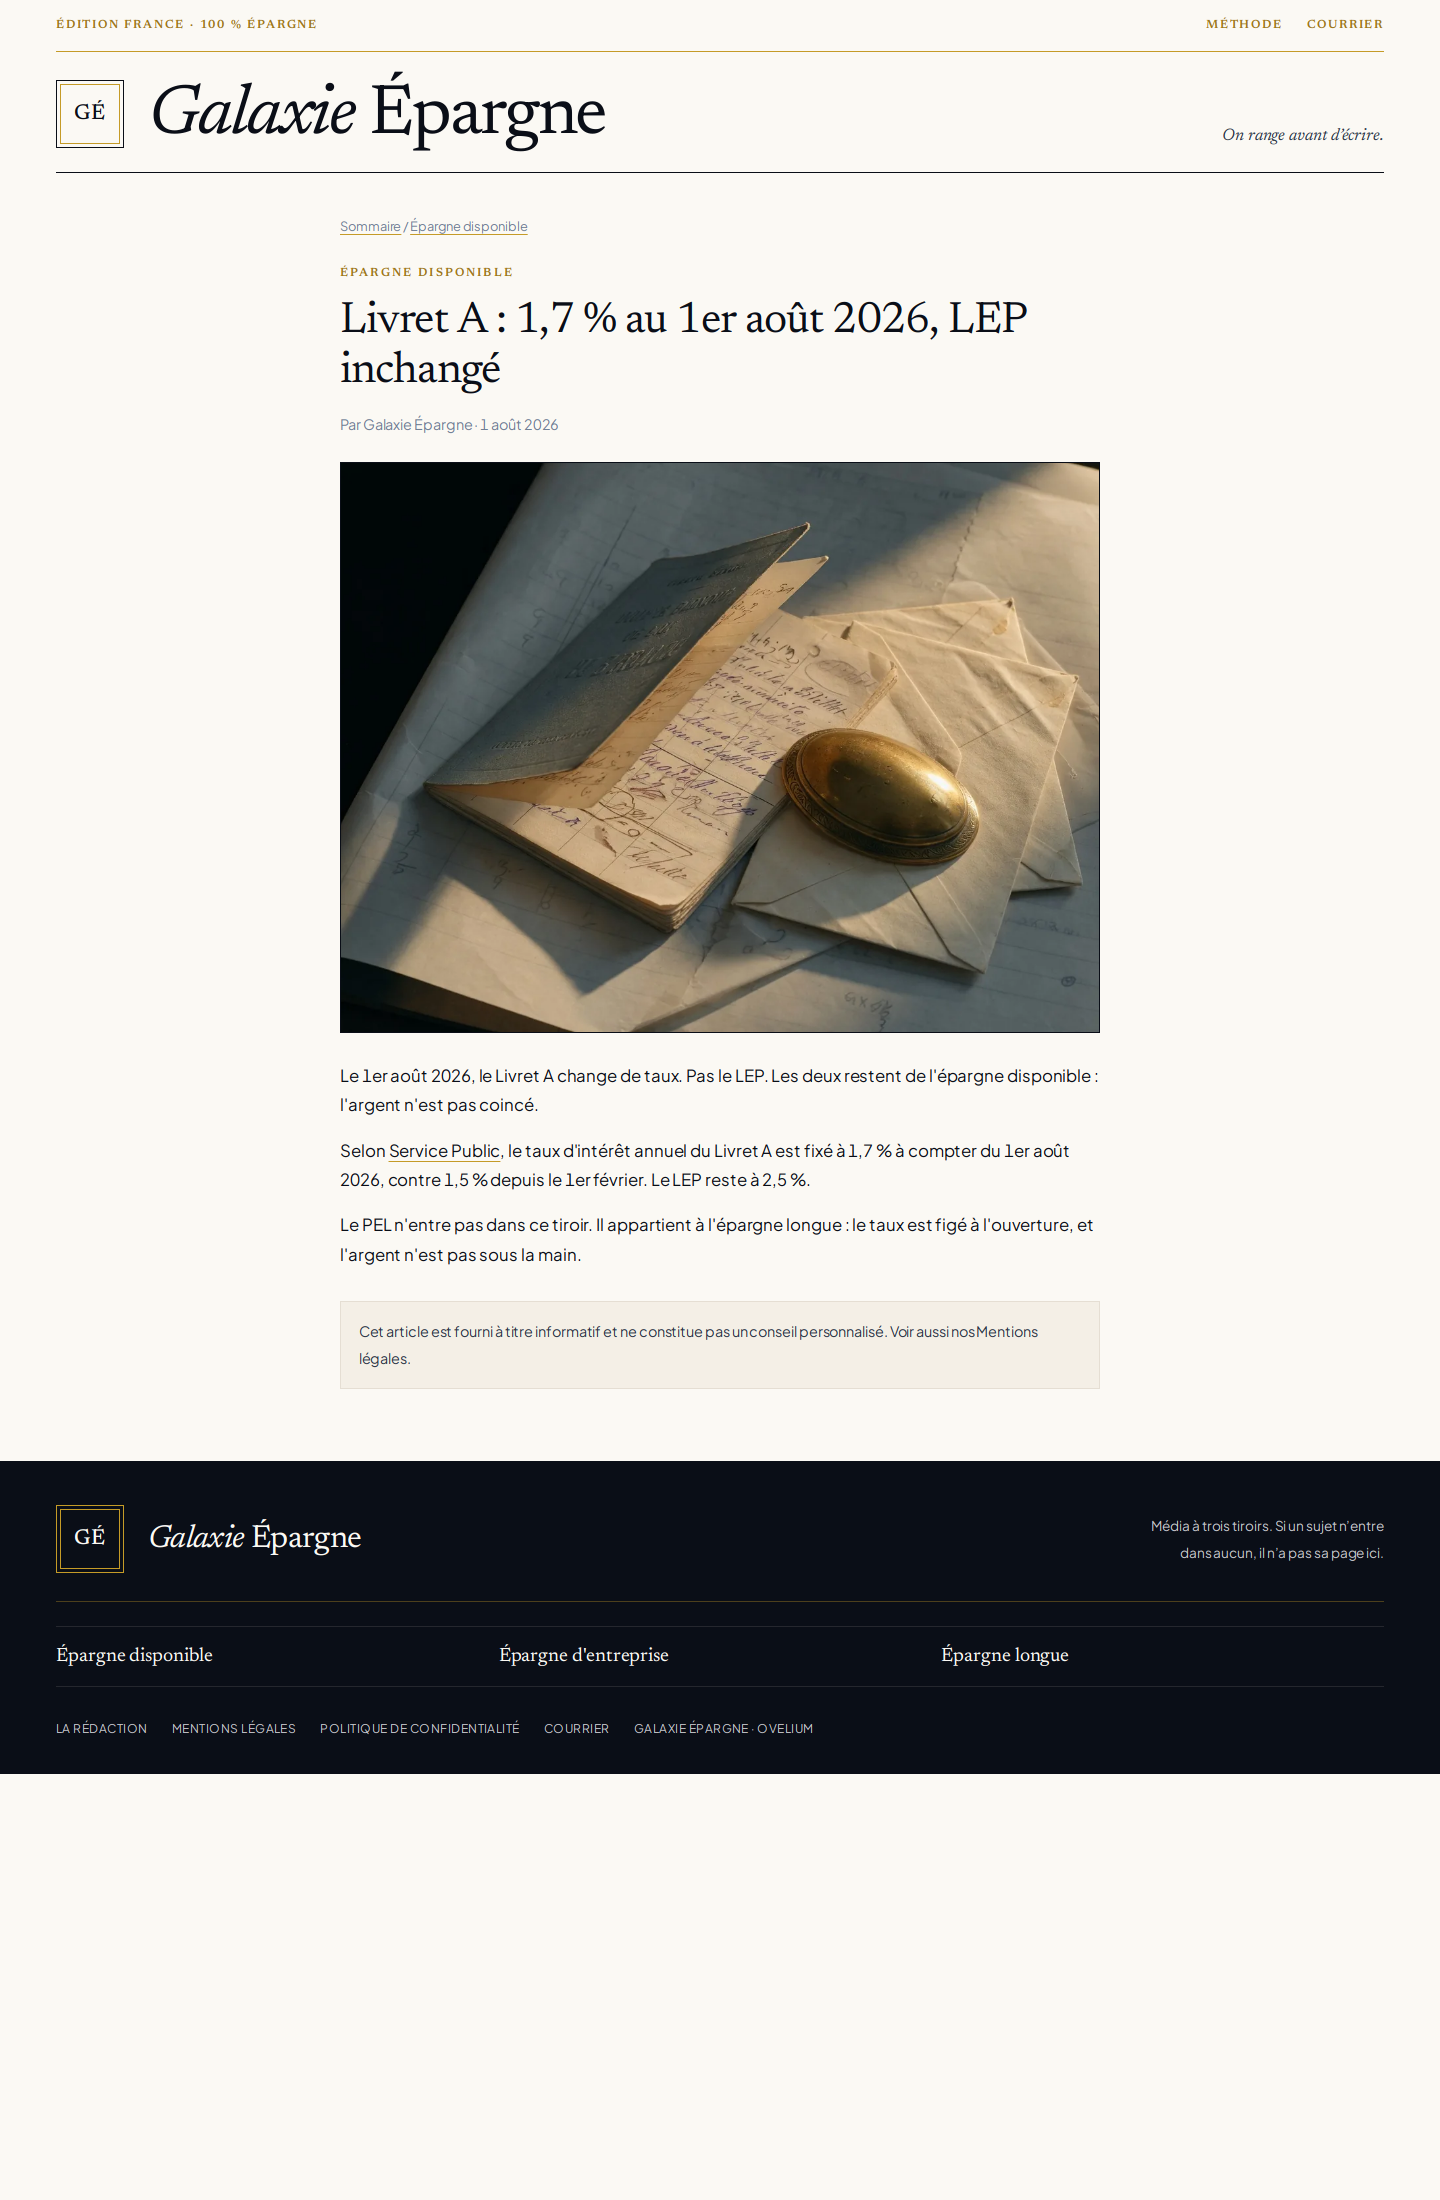
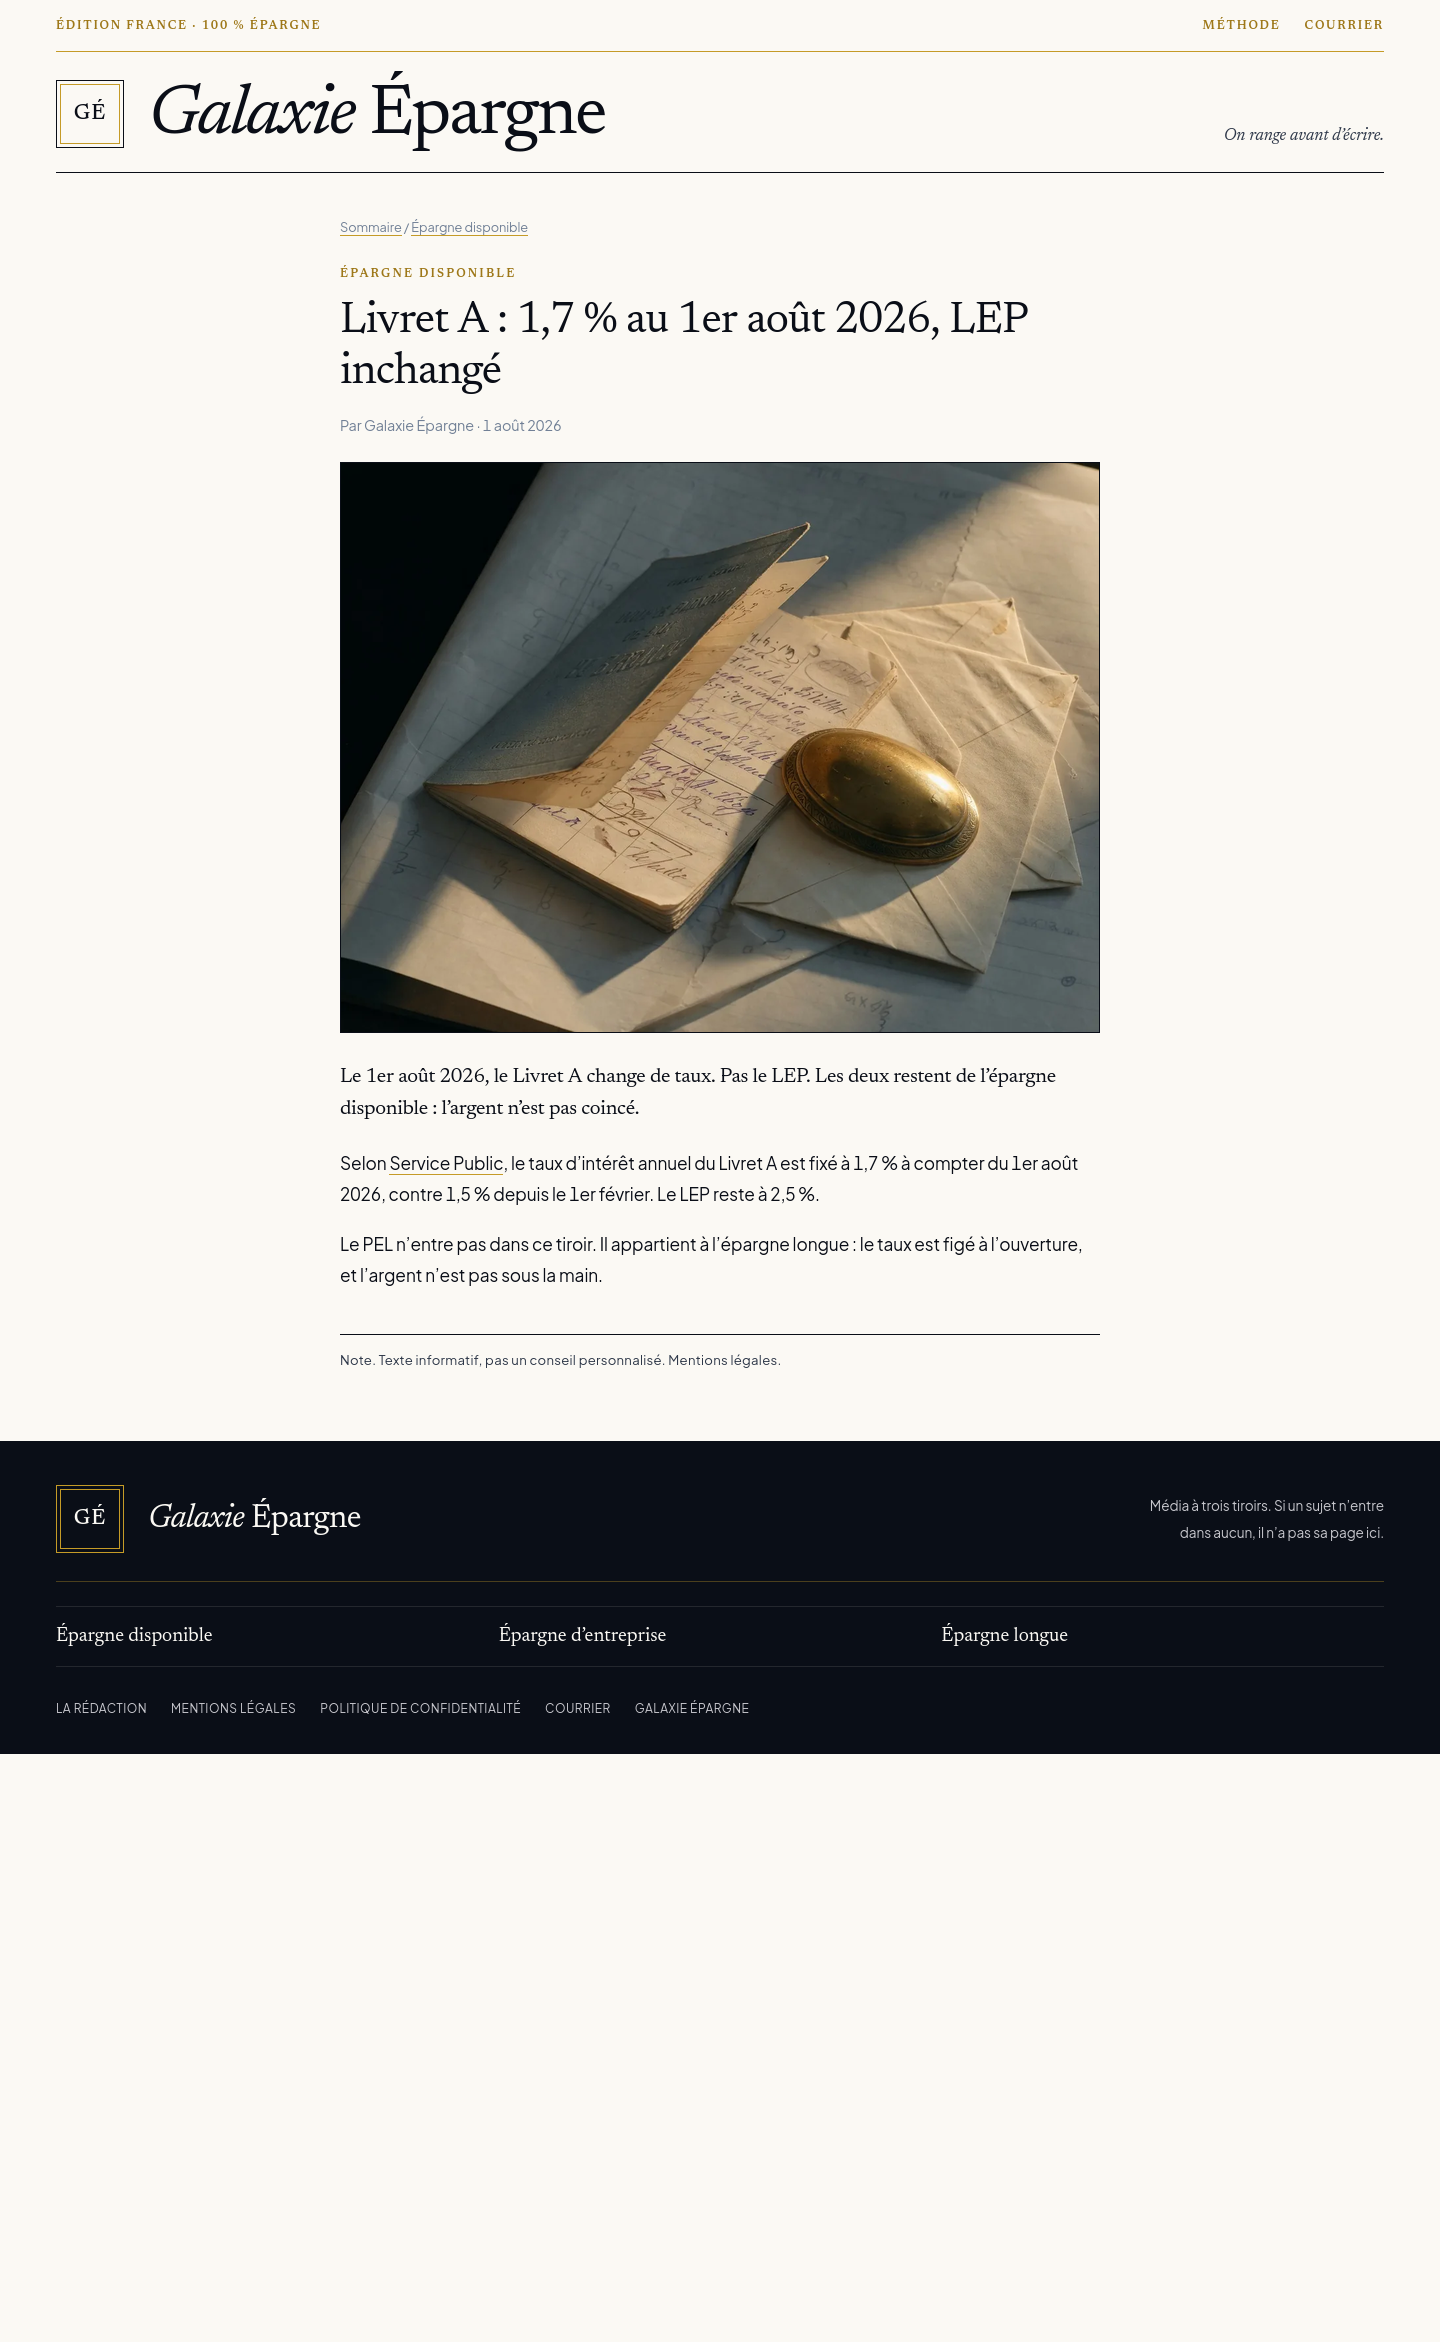
Recale nits Galaxie Épargne : apostrophes U+2019, chapo sans liens, footer sans OVELIUM

Changed region(s): [[0.0, 0.0, 1.0, 0.8036], [0.875, 0.0, 0.9375, 0.0618], [0.8438, 0.0, 0.875, 0.0309]]

diff --git a/src/styles/faces.css b/src/styles/faces.css
@@ -1,0 +1,114 @@
+/* latin + latin-ext only. unicode-range is required: subset CSS without it
+   lets latin-ext overwrite latin and drop U+2019 (n’est → nest / Siun / iln). */
+@font-face {
+  font-family: "Newsreader";
+  font-style: normal;
+  font-display: swap;
+  font-weight: 400;
+  src: url("../../node_modules/@fontsource/newsreader/files/newsreader-latin-400-normal.woff2") format("woff2");
+  unicode-range: U+0000-00FF, U+0131, U+0152-0153, U+02BB-02BC, U+02C6, U+02DA, U+02DC, U+0304, U+0308, U+0329, U+2000-206F, U+20AC, U+2122, U+2191, U+2193, U+2212, U+2215, U+FEFF, U+FFFD;
+}
+@font-face {
+  font-family: "Newsreader";
+  font-style: normal;
+  font-display: swap;
+  font-weight: 400;
+  src: url("../../node_modules/@fontsource/newsreader/files/newsreader-latin-ext-400-normal.woff2") format("woff2");
+  unicode-range: U+0100-02BA, U+02BD-02C5, U+02C7-02CC, U+02CE-02D7, U+02DD-02FF, U+0304, U+0308, U+0329, U+1D00-1DBF, U+1E00-1E9F, U+1EF2-1EFF, U+2020, U+20A0-20AB, U+20AD-20C0, U+2113, U+2C60-2C7F, U+A720-A7FF;
+}
+@font-face {
+  font-family: "Newsreader";
+  font-style: italic;
+  font-display: swap;
+  font-weight: 400;
+  src: url("../../node_modules/@fontsource/newsreader/files/newsreader-latin-400-italic.woff2") format("woff2");
+  unicode-range: U+0000-00FF, U+0131, U+0152-0153, U+02BB-02BC, U+02C6, U+02DA, U+02DC, U+0304, U+0308, U+0329, U+2000-206F, U+20AC, U+2122, U+2191, U+2193, U+2212, U+2215, U+FEFF, U+FFFD;
+}
+@font-face {
+  font-family: "Newsreader";
+  font-style: italic;
+  font-display: swap;
+  font-weight: 400;
+  src: url("../../node_modules/@fontsource/newsreader/files/newsreader-latin-ext-400-italic.woff2") format("woff2");
+  unicode-range: U+0100-02BA, U+02BD-02C5, U+02C7-02CC, U+02CE-02D7, U+02DD-02FF, U+0304, U+0308, U+0329, U+1D00-1DBF, U+1E00-1E9F, U+1EF2-1EFF, U+2020, U+20A0-20AB, U+20AD-20C0, U+2113, U+2C60-2C7F, U+A720-A7FF;
+}
+@font-face {
+  font-family: "Newsreader";
+  font-style: normal;
+  font-display: swap;
+  font-weight: 500;
+  src: url("../../node_modules/@fontsource/newsreader/files/newsreader-latin-500-normal.woff2") format("woff2");
+  unicode-range: U+0000-00FF, U+0131, U+0152-0153, U+02BB-02BC, U+02C6, U+02DA, U+02DC, U+0304, U+0308, U+0329, U+2000-206F, U+20AC, U+2122, U+2191, U+2193, U+2212, U+2215, U+FEFF, U+FFFD;
+}
+@font-face {
+  font-family: "Newsreader";
+  font-style: normal;
+  font-display: swap;
+  font-weight: 500;
+  src: url("../../node_modules/@fontsource/newsreader/files/newsreader-latin-ext-500-normal.woff2") format("woff2");
+  unicode-range: U+0100-02BA, U+02BD-02C5, U+02C7-02CC, U+02CE-02D7, U+02DD-02FF, U+0304, U+0308, U+0329, U+1D00-1DBF, U+1E00-1E9F, U+1EF2-1EFF, U+2020, U+20A0-20AB, U+20AD-20C0, U+2113, U+2C60-2C7F, U+A720-A7FF;
+}
+@font-face {
+  font-family: "Newsreader";
+  font-style: normal;
+  font-display: swap;
+  font-weight: 600;
+  src: url("../../node_modules/@fontsource/newsreader/files/newsreader-latin-600-normal.woff2") format("woff2");
+  unicode-range: U+0000-00FF, U+0131, U+0152-0153, U+02BB-02BC, U+02C6, U+02DA, U+02DC, U+0304, U+0308, U+0329, U+2000-206F, U+20AC, U+2122, U+2191, U+2193, U+2212, U+2215, U+FEFF, U+FFFD;
+}
+@font-face {
+  font-family: "Newsreader";
+  font-style: normal;
+  font-display: swap;
+  font-weight: 600;
+  src: url("../../node_modules/@fontsource/newsreader/files/newsreader-latin-ext-600-normal.woff2") format("woff2");
+  unicode-range: U+0100-02BA, U+02BD-02C5, U+02C7-02CC, U+02CE-02D7, U+02DD-02FF, U+0304, U+0308, U+0329, U+1D00-1DBF, U+1E00-1E9F, U+1EF2-1EFF, U+2020, U+20A0-20AB, U+20AD-20C0, U+2113, U+2C60-2C7F, U+A720-A7FF;
+}
+@font-face {
+  font-family: "Plus Jakarta Sans";
+  font-style: normal;
+  font-display: swap;
+  font-weight: 400;
+  src: url("../../node_modules/@fontsource/plus-jakarta-sans/files/plus-jakarta-sans-latin-400-normal.woff2") format("woff2");
+  unicode-range: U+0000-00FF, U+0131, U+0152-0153, U+02BB-02BC, U+02C6, U+02DA, U+02DC, U+0304, U+0308, U+0329, U+2000-206F, U+20AC, U+2122, U+2191, U+2193, U+2212, U+2215, U+FEFF, U+FFFD;
+}
+@font-face {
+  font-family: "Plus Jakarta Sans";
+  font-style: normal;
+  font-display: swap;
+  font-weight: 400;
+  src: url("../../node_modules/@fontsource/plus-jakarta-sans/files/plus-jakarta-sans-latin-ext-400-normal.woff2") format("woff2");
+  unicode-range: U+0100-02BA, U+02BD-02C5, U+02C7-02CC, U+02CE-02D7, U+02DD-02FF, U+0304, U+0308, U+0329, U+1D00-1DBF, U+1E00-1E9F, U+1EF2-1EFF, U+2020, U+20A0-20AB, U+20AD-20C0, U+2113, U+2C60-2C7F, U+A720-A7FF;
+}
+@font-face {
+  font-family: "Plus Jakarta Sans";
+  font-style: normal;
+  font-display: swap;
+  font-weight: 500;
+  src: url("../../node_modules/@fontsource/plus-jakarta-sans/files/plus-jakarta-sans-latin-500-normal.woff2") format("woff2");
+  unicode-range: U+0000-00FF, U+0131, U+0152-0153, U+02BB-02BC, U+02C6, U+02DA, U+02DC, U+0304, U+0308, U+0329, U+2000-206F, U+20AC, U+2122, U+2191, U+2193, U+2212, U+2215, U+FEFF, U+FFFD;
+}
+@font-face {
+  font-family: "Plus Jakarta Sans";
+  font-style: normal;
+  font-display: swap;
+  font-weight: 500;
+  src: url("../../node_modules/@fontsource/plus-jakarta-sans/files/plus-jakarta-sans-latin-ext-500-normal.woff2") format("woff2");
+  unicode-range: U+0100-02BA, U+02BD-02C5, U+02C7-02CC, U+02CE-02D7, U+02DD-02FF, U+0304, U+0308, U+0329, U+1D00-1DBF, U+1E00-1E9F, U+1EF2-1EFF, U+2020, U+20A0-20AB, U+20AD-20C0, U+2113, U+2C60-2C7F, U+A720-A7FF;
+}
+@font-face {
+  font-family: "Plus Jakarta Sans";
+  font-style: normal;
+  font-display: swap;
+  font-weight: 600;
+  src: url("../../node_modules/@fontsource/plus-jakarta-sans/files/plus-jakarta-sans-latin-600-normal.woff2") format("woff2");
+  unicode-range: U+0000-00FF, U+0131, U+0152-0153, U+02BB-02BC, U+02C6, U+02DA, U+02DC, U+0304, U+0308, U+0329, U+2000-206F, U+20AC, U+2122, U+2191, U+2193, U+2212, U+2215, U+FEFF, U+FFFD;
+}
+@font-face {
+  font-family: "Plus Jakarta Sans";
+  font-style: normal;
+  font-display: swap;
+  font-weight: 600;
+  src: url("../../node_modules/@fontsource/plus-jakarta-sans/files/plus-jakarta-sans-latin-ext-600-normal.woff2") format("woff2");
+  unicode-range: U+0100-02BA, U+02BD-02C5, U+02C7-02CC, U+02CE-02D7, U+02DD-02FF, U+0304, U+0308, U+0329, U+1D00-1DBF, U+1E00-1E9F, U+1EF2-1EFF, U+2020, U+20A0-20AB, U+20AD-20C0, U+2113, U+2C60-2C7F, U+A720-A7FF;
+}

diff --git a/src/styles/edition.css b/src/styles/edition.css
@@ -1,17 +1,4 @@
-@import "@fontsource/newsreader/latin-400.css";
-@import "@fontsource/newsreader/latin-400-italic.css";
-@import "@fontsource/newsreader/latin-500.css";
-@import "@fontsource/newsreader/latin-600.css";
-@import "@fontsource/newsreader/latin-ext-400.css";
-@import "@fontsource/newsreader/latin-ext-400-italic.css";
-@import "@fontsource/newsreader/latin-ext-500.css";
-@import "@fontsource/newsreader/latin-ext-600.css";
-@import "@fontsource/plus-jakarta-sans/latin-400.css";
-@import "@fontsource/plus-jakarta-sans/latin-500.css";
-@import "@fontsource/plus-jakarta-sans/latin-600.css";
-@import "@fontsource/plus-jakarta-sans/latin-ext-400.css";
-@import "@fontsource/plus-jakarta-sans/latin-ext-500.css";
-@import "@fontsource/plus-jakarta-sans/latin-ext-600.css";
+@import "./faces.css";
 
 @tailwind base;
 @tailwind components;
@@ -236,14 +223,6 @@ textarea {
   font-size: 1.05rem;
   line-height: 1.7;
   color: var(--ardoise);
-}
-.ge-chapo::first-letter {
-  font-family: var(--display);
-  font-size: 2.55rem;
-  float: left;
-  line-height: 0.9;
-  padding: 0.12rem 0.18rem 0 0;
-  color: var(--encre);
 }
 .ge-chapo a {
   color: var(--encre);
@@ -505,6 +484,8 @@ textarea {
   border-bottom: 1px solid rgba(197, 155, 39, 0.35);
   font-family: var(--display);
   font-size: 1.2rem;
+  cursor: default;
+  pointer-events: none;
 }
 @media (max-width: 767px) {
   .ge-atelier .ge-salon {
@@ -581,17 +562,25 @@ textarea {
   height: auto;
 }
 .ge-corps {
-  font-size: 1.05rem;
-  line-height: 1.75;
+  font-size: 1.08rem;
+  line-height: 1.8;
 }
 .ge-corps h2 {
   font-family: var(--display);
   font-size: 1.5rem;
   font-weight: 500;
-  margin: 2rem 0 0.75rem;
+  margin: 2.35rem 0 0.75rem;
 }
 .ge-corps p {
-  margin: 0 0 1rem;
+  margin: 0 0 1.15rem;
+}
+.ge-corps > p:first-of-type {
+  font-family: var(--display);
+  font-size: 1.28rem;
+  line-height: 1.55;
+  letter-spacing: -0.015em;
+  color: var(--encre);
+  margin-bottom: 1.45rem;
 }
 .ge-corps a {
   text-decoration: underline;
@@ -599,12 +588,20 @@ textarea {
   text-underline-offset: 4px;
 }
 .ge-encart {
-  margin-top: 2rem;
-  padding: 1rem 1.1rem;
-  background: var(--parchemin);
-  border: 1px solid var(--filet);
+  margin-top: 2.75rem;
+  padding: 0.85rem 0 0;
+  background: none;
+  border: 0;
+  border-top: 1px solid var(--encre);
+  border-radius: 0;
+  box-shadow: none;
   color: var(--ardoise);
-  font-size: 0.9rem;
+  font-size: 0.82rem;
+  letter-spacing: 0.02em;
+  line-height: 1.55;
+}
+.ge-encart p {
+  margin: 0;
 }
 .ge-suite {
   width: min(1360px, calc(100% - 7rem));

diff --git a/src/config.ts b/src/config.ts
@@ -10,7 +10,7 @@ const id = identity as typeof identity & {
 };
 
 const uiDefaults: Record<string, string> = {
-  readMore: "Lire l'article",
+  readMore: "Lire l’article",
   publishedBy: "Par",
   alsoRead: "À lire également",
   aboutAuthor: "À propos",
@@ -25,7 +25,7 @@ const uiDefaults: Record<string, string> = {
   privacyPolicy: "Politique de confidentialité",
   discover: "Découvrir",
   newContentComing: "Le contenu arrive bientôt.",
-  breadcrumbAria: "Fil d'Ariane",
+  breadcrumbAria: "Fil d’Ariane",
   masthead: "La rédaction",
 };
 

diff --git a/src/content/articles/livret-a-taux-aout-2026.md b/src/content/articles/livret-a-taux-aout-2026.md
@@ -17,6 +17,6 @@ schemaJson:
   }
 ---
 
-<p>Le 1er août 2026, le Livret A change de taux. Pas le LEP. Les deux restent de l'épargne disponible : l'argent n'est pas coincé.</p>
-<p>Selon <a href="https://www.service-public.fr/particuliers/actualites/A18000" rel="dofollow">Service Public</a>, le taux d'intérêt annuel du Livret A est fixé à 1,7 % à compter du 1er août 2026, contre 1,5 % depuis le 1er février. Le LEP reste à 2,5 %.</p>
-<p>Le PEL n'entre pas dans ce tiroir. Il appartient à l'épargne longue : le taux est figé à l'ouverture, et l'argent n'est pas sous la main.</p>
+<p>Le 1er août 2026, le Livret A change de taux. Pas le LEP. Les deux restent de l’épargne disponible : l’argent n’est pas coincé.</p>
+<p>Selon <a href="https://www.service-public.fr/particuliers/actualites/A18000" rel="dofollow">Service Public</a>, le taux d’intérêt annuel du Livret A est fixé à 1,7 % à compter du 1er août 2026, contre 1,5 % depuis le 1er février. Le LEP reste à 2,5 %.</p>
+<p>Le PEL n’entre pas dans ce tiroir. Il appartient à l’épargne longue : le taux est figé à l’ouverture, et l’argent n’est pas sous la main.</p>

diff --git a/src/content/articles/bienvenue.md b/src/content/articles/bienvenue.md
@@ -11,4 +11,4 @@ status: draft
 isDraft: true
 ---
 
-<p>Ceci est l'article seed du modèle. Le corps HTML arrive ensuite via le pipeline, sans réécriture des liens.</p>
+<p>Ceci est l’article seed du modèle. Le corps HTML arrive ensuite via le pipeline, sans réécriture des liens.</p>
